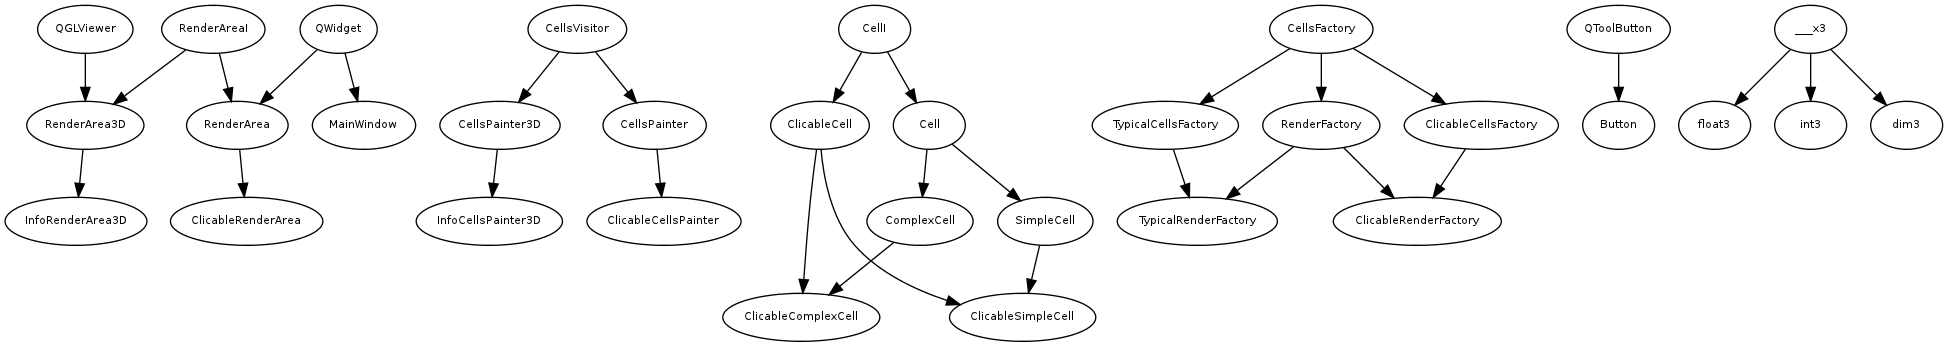
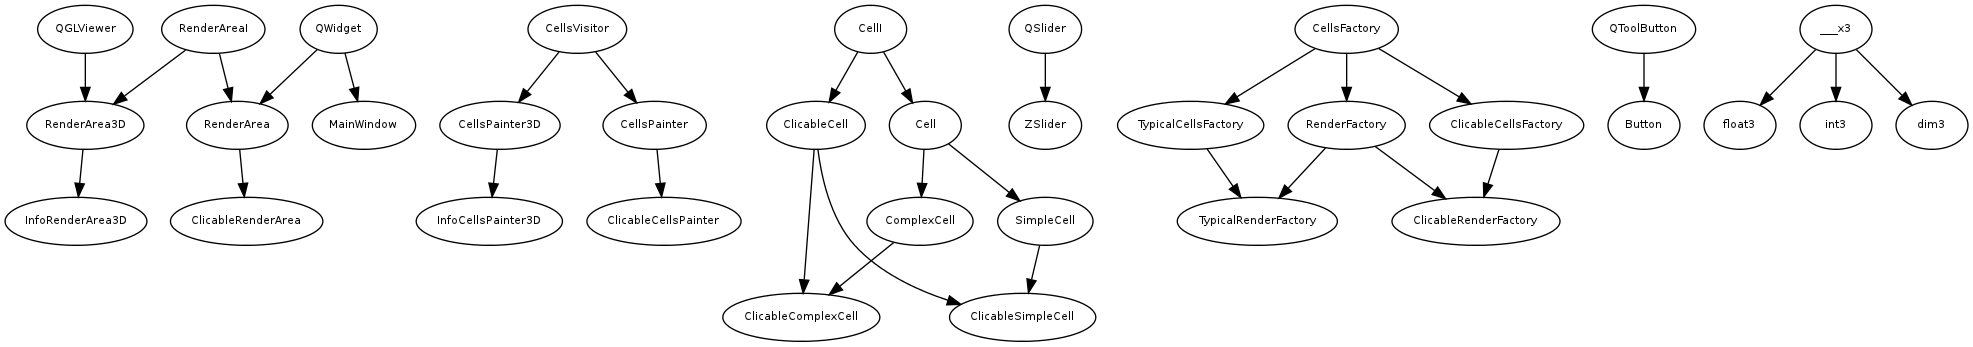
Димеры не формируются, если на них уже установлено. Запрет клика на нижние.

diff --git a/mainwindow.cpp b/mainwindow.cpp
@@ -4,10 +4,10 @@
 //#include "typicalrenderfactory.h"
 
 MainWindow::MainWindow() {
-    int cellular_height = 3;
+    int cellular_height = 8;
     int curr_cellular_z = 1;
 
-    _factory = new ClicableRenderFactory(12, 8, cellular_height);
+    _factory = new ClicableRenderFactory(16, 12, cellular_height);
 //    _factory = new TypicalRenderFactory(12, 8, cellular_height);
     _render_area = _factory->makeRenderArea(this, curr_cellular_z, 20);
 
@@ -20,14 +20,7 @@ MainWindow::MainWindow() {
     connect(_render_area, SIGNAL(hideInfo()), _render_area_3d, SLOT(hideInfo()));
 #endif
 
-    _slider = new QSlider(Qt::Vertical, this);
-    _slider->setTickPosition(QSlider::TicksBothSides);
-    _slider->setTickInterval(2);
-    _slider->setSingleStep(1);
-    _slider->setMinimum(0);
-    _slider->setMaximum(cellular_height - 1);
-    _slider->setValue(curr_cellular_z);
-
+    _slider = new ZSlider(this, cellular_height - 1, curr_cellular_z);
     connect(_slider, SIGNAL(valueChanged(int)), this, SLOT(moveZ(int)));
 
     QGridLayout *render_layout = new QGridLayout;
@@ -40,12 +33,16 @@ MainWindow::MainWindow() {
     _form_dimer_button = new Button(tr("Build dimer rows"), this);
     connect(_form_dimer_button, SIGNAL(clicked()), this, SLOT(formDimers()));
 
+    _next_button = new Button(tr("Next"), this);
+    connect(_next_button, SIGNAL(clicked()), this, SLOT(next()));
+
     _reset_camera_button = new Button(tr("Reset camera"), this);
     connect(_reset_camera_button, SIGNAL(clicked()), _render_area_3d, SLOT(resetCamera()));
 
     QGridLayout *buttons_layout = new QGridLayout;
     buttons_layout->addWidget(_form_dimer_button, 0, 0, Qt::AlignCenter);
-    buttons_layout->addWidget(_reset_camera_button, 0, 1, Qt::AlignCenter);
+    buttons_layout->addWidget(_next_button, 0, 1, Qt::AlignCenter);
+    buttons_layout->addWidget(_reset_camera_button, 0, 2, Qt::AlignCenter);
     _buttons_group = new QGroupBox(this);
     _buttons_group->setLayout(buttons_layout);
 
@@ -75,6 +72,11 @@ void MainWindow::updateRenderAreas() {
 
 void MainWindow::formDimers() {
     _factory->cellularInstance()->buildDimers();
+    updateRenderAreas();
+}
+
+void MainWindow::next() {
+    _factory->cellularInstance()->next();
     updateRenderAreas();
 }
 

diff --git a/clicablecellspainter.cpp b/clicablecellspainter.cpp
@@ -16,8 +16,10 @@ ClicableCellsPainter::ClicableCellsPainter(ClicableRenderArea *render_area, QPai
     _simple_cell_color_neighbour_info = QColor(Qt::red);
     _simple_cell_color_neighbour_info.setAlphaF(0.5);
 
-    _cross_pen = QPen(Qt::red);
-    _cross_pen.setWidth(0.5);
+    _top_cross_pen = QPen(Qt::red);
+    _top_cross_pen.setWidth(0.5);
+    _bottom_cross_pen = QPen(Qt::green);
+    _bottom_cross_pen.setWidth(0.5);
 }
 
 void ClicableCellsPainter::visitComplexCell(ComplexCell &cell) {
@@ -28,8 +30,12 @@ void ClicableCellsPainter::visitComplexCell(ComplexCell &cell) {
 
 void ClicableCellsPainter::visitSimpleCell(SimpleCell &cell) {
     ClicableSimpleCell &clicable_simple_cell = static_cast<ClicableSimpleCell &>(cell);
-    if (clicable_simple_cell.bottomIs()) CellsPainter::visitSimpleCell(cell);
-    else drawCross(cell);
+    if (clicable_simple_cell.bottomIs()) {
+        CellsPainter::visitSimpleCell(cell);
+        if (clicable_simple_cell.topIs()) drawCross(cell, _bottom_cross_pen);
+    } else {
+        drawCross(cell, _top_cross_pen);
+    }
 
     if (const QColor *pcolor = getColor(cell, _simple_cell_color_info, _simple_cell_color_neighbour_info)) {
         drawSimpleCell(cell, *pcolor);
@@ -48,11 +54,11 @@ const QColor *ClicableCellsPainter::getColor(const CellI &cell, const QColor &co
     return 0;
 }
 
-void ClicableCellsPainter::drawCross(const SimpleCell &cell) {
+void ClicableCellsPainter::drawCross(const SimpleCell &cell, const QPen &pen) {
     int real_x, real_y;
     seek(cell, real_x, real_y);
 
-    painter()->setPen(_cross_pen);
+    painter()->setPen(pen);
 
     painter()->save();
     painter()->translate(real_x, real_y);

diff --git a/renderarea3d.cpp b/renderarea3d.cpp
@@ -21,7 +21,8 @@ void RenderArea3D::drawCubeBorder(const float3 &center, const float3 &color, flo
 
 void RenderArea3D::drawBCube(const float3 &center, const float3 &color, float alpha) {
     drawCube(center, color, alpha);
-    float3 darken(color.x * .8f, color.y * .8f, color.z * .8f);
+    const float coef = .8f;
+    float3 darken(color.x * coef, color.y * coef, color.z * coef);
     drawCubeBorder(center, darken, alpha);
 }
 
@@ -33,19 +34,21 @@ void RenderArea3D::drawHalfDimer(const float3 &center, float alpha) {
 }
 
 void RenderArea3D::init() {
-//    glDisable(GL_LIGHTING);
+    glDisable(GL_LIGHTING);
+//    glEnable(GL_LIGHTING);
+//    glLightModeli(GL_LIGHT_MODEL_TWO_SIDE, GL_TRUE);
 
-    float ambient[4] = {.3f, .3f, .3f, 1.f};
-    glLightModelfv(GL_LIGHT_MODEL_AMBIENT, ambient);
+//    float ambient[4] = {.3f, .3f, .3f, 1.f};
+//    glLightModelfv(GL_LIGHT_MODEL_AMBIENT, ambient);
 
     glEnable(GL_BLEND);
 //    glDepthMask(GL_FALSE);
     glBlendFunc(GL_SRC_ALPHA, GL_ONE_MINUS_SRC_ALPHA);
 
-////    glClear( GL_COLOR_BUFFER_BIT | GL_DEPTH_BUFFER_BIT );
+//////    glClear( GL_COLOR_BUFFER_BIT | GL_DEPTH_BUFFER_BIT );
 //    GLfloat gl_diff_color[] = { 1, 1, 1, 1 };
-//    glMaterialfv(GL_FRONT_AND_BACK, GL_AMBIENT_AND_DIFFUSE, gl_diff_color);
-////    glLightModeli(GL_LIGHT_MODEL_TWO_SIDE, GL_TRUE);
+//    glMaterialfv(GL_BACK, GL_DIFFUSE, gl_diff_color);
+////    glMaterialfv(GL_FRONT_AND_BACK, GL_AMBIENT_AND_DIFFUSE, gl_diff_color);
 
     setRadiusAndCenter();
     _cells_painter = createCellsPainter();

diff --git a/simplecell.cpp b/simplecell.cpp
@@ -11,7 +11,7 @@ SimpleCell::SimpleCell(int state, int x, int y) : _x(x), _y(y), _state(state), _
 void SimpleCell::resolvNextState() {
     int sum = 0;
     for (int i = 0; i < neighboursNum(); ++i) {
-//        if (neighbour(i)->_state == 1) ++sum;
+        if (typedNeighbour(i) == 0) continue;
         if (typedNeighbour(i)->_state == 1) ++sum;
     }
 
@@ -21,4 +21,9 @@ void SimpleCell::resolvNextState() {
 
 void SimpleCell::next() {
     _state = _next_state;
+}
+
+bool SimpleCell::topFrontIs() const {
+    if (typedNeighbour(6) == 0) return false;
+    else return typedNeighbour(6)->_state == 1;
 }

diff --git a/clicablesimplecell.cpp b/clicablesimplecell.cpp
@@ -1,6 +1,14 @@
 #include "clicablesimplecell.h"
 
+bool ClicableSimpleCell::topIs() const {
+    if (state() == 0) return false;
+    else {
+        if (typedNeighbour(6) == 0 /*|| typedNeighbour(7) == 0*/) return false;
+        else return typedNeighbour(6)->state() == 1 || typedNeighbour(7)->state() == 1;
+    }
+}
+
 bool ClicableSimpleCell::bottomIs() const {
     return typedNeighbour(4) == 0 || /*typedNeighbour(5) == 0 ||*/
-            typedNeighbour(4)->state() || typedNeighbour(5)->state();
+            typedNeighbour(4)->state() == 1 || typedNeighbour(5)->state() == 1;
 }

diff --git a/mainwindow.h b/mainwindow.h
@@ -3,6 +3,7 @@
 
 #include <QWidget>
 #include "button.h"
+#include "zslider.h"
 #include "renderarea.h"
 #include "renderarea3d.h"
 #include "renderfactory.h"
@@ -17,6 +18,7 @@ public:
 private slots:
     void updateRenderAreas();
     void formDimers();
+    void next();
     void moveZ(int z);
 
 private:
@@ -31,10 +33,11 @@ private:
     RenderArea *_render_area;
     RenderArea3D *_render_area_3d;
 
-    QSlider *_slider;
+    ZSlider *_slider;
 
     QGroupBox *_buttons_group;
     Button *_form_dimer_button;
+    Button *_next_button;
     Button *_reset_camera_button;
 };
 

diff --git a/clicablecellspainter.h b/clicablecellspainter.h
@@ -17,11 +17,11 @@ private:
     ClicableCellsPainter &operator= (const ClicableCellsPainter &);
 
     const QColor *getColor(const CellI &clicable_cell, const QColor &color_info, const QColor &color_neighbour) const;
-    void drawCross(const SimpleCell &cell);
+    void drawCross(const SimpleCell &cell, const QPen &pen);
 
     QColor _complex_cell_color_info, _complex_cell_color_neighbour_info;
     QColor _simple_cell_color_info, _simple_cell_color_neighbour_info;
-    QPen _cross_pen;
+    QPen _top_cross_pen, _bottom_cross_pen;
 };
 
 #endif // CLICABLECELLPAINTER_H

diff --git a/clicablerenderarea.cpp b/clicablerenderarea.cpp
@@ -48,7 +48,7 @@ void ClicableRenderArea::mousePressEvent(QMouseEvent *event) {
     ClicableComplexCell *complex_cell = static_cast<ClicableComplexCell *>(cellular()->cell(x, y, currZ()));
     ClicableSimpleCell *simple_cell = static_cast<ClicableSimpleCell *>(complex_cell->cell(inner_x, inner_y));
 
-    if (event->button() != Qt::RightButton && simple_cell->bottomIs()) {
+    if (event->button() != Qt::RightButton && simple_cell->bottomIs() && !simple_cell->topIs()) {
         simple_cell->invertState();
 
         emit cellStateChanged();

diff --git a/cellular.cpp b/cellular.cpp
@@ -148,7 +148,7 @@ void Cellular::buildDimers() {
                         }
                         first = second->front();
 
-                        if (!first->canBeDimer() || !second->canBeDimer()) continue;
+                        if (!first->canBeDimer() || !second->canBeDimer() || second->topFrontIs()) continue;
 
                         if (part == 0) {
                             dr_builder.addDimer(2 * y + i, x, first, second);

diff --git a/zslider.cpp b/zslider.cpp
@@ -1,0 +1,10 @@
+#include "zslider.h"
+
+ZSlider::ZSlider(QWidget *parent, int max_value, int curr_value) : QSlider(Qt::Vertical, parent) {
+    setTickPosition(QSlider::TicksBothSides);
+    setTickInterval(2);
+    setSingleStep(1);
+    setMinimum(0);
+    setMaximum(max_value);
+    setValue(curr_value);
+}

diff --git a/simplecell.h b/simplecell.h
@@ -19,6 +19,8 @@ public:
 
     SimpleCell *front() const { return typedNeighbour(0); }
 
+    bool topFrontIs() const;
+
     bool canBeDimer() const { return _state == 1; }
     void setDimerDirection(DimerDirection direct) { _dimer = direct; }
     void resetDimer() { _dimer = NONE; }

diff --git a/zslider.h b/zslider.h
@@ -1,0 +1,17 @@
+#ifndef ZSLIDER_H
+#define ZSLIDER_H
+
+#include <QSlider>
+
+class ZSlider : public QSlider
+{
+//    Q_OBJECT
+public:
+    explicit ZSlider(QWidget *parent, int max_value, int curr_value);
+    
+//signals:
+//public slots:
+    
+};
+
+#endif // ZSLIDER_H
